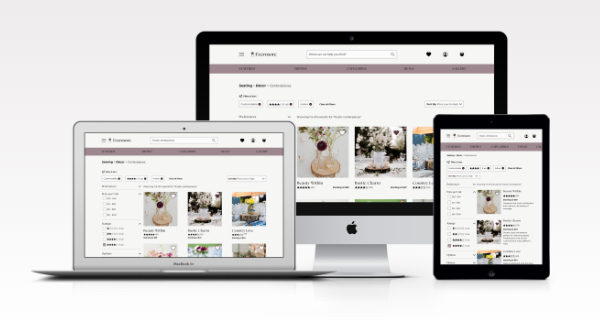
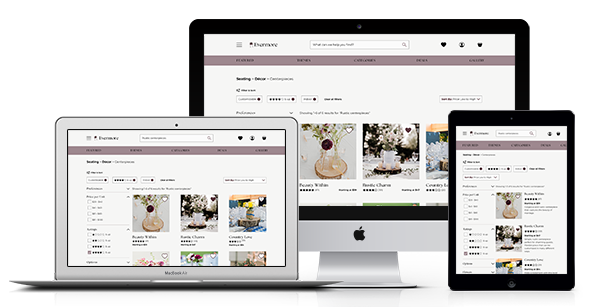
2.6.1
Revised file names, logo size

diff --git a/css/style.css b/css/style.css
@@ -241,6 +241,7 @@ header {
 .logo {
   max-width: 150px;
   max-height: 48px;
+  width: auto;
 }
 
 nav > ul {
@@ -470,6 +471,7 @@ a.icon {
   .logo {
     max-width: 250px;
     max-height: 64px;
+    width: auto;
   }
 
   nav > ul > li {
@@ -605,6 +607,8 @@ a.icon {
 
   .logo {
     max-width: 250px;
+    max-height: 64px;
+    width: auto;
   }
 
   nav > ul > li {
@@ -734,6 +738,7 @@ a.icon {
   .logo {
     max-width: 250px;
     max-height: 64px;
+    width: auto;
   }
 
   nav > ul > li {
